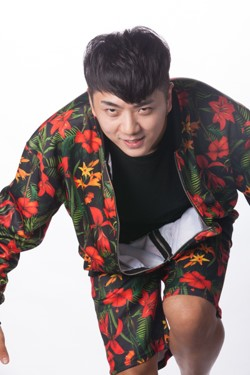
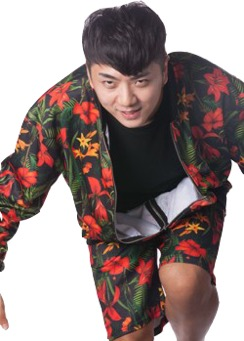
Member Tab 이미지 변경  - 투명도 작업(데모용, 추후 변경 됨)

diff --git a/src/shop-category-data.html b/src/shop-category-data.html
@@ -18,25 +18,25 @@ subject to an additional IP rights grant found at http://polymer.github.io/PATEN
       {
         name: 'mens_outerwear',
         title: 'Artists',
-        image: '/images/artists_6.jpg',
+        image: '/images/artists_8.png',
[1 lines of base64/hex data omitted]
       },
       {
         name: 'ladies_outerwear',
         title: 'News',
-        image: '/images/mixer_2_2.jpg',
+        image: '/images/news_1.jpg',
[1 lines of base64/hex data omitted]
       },
       {
         name: 'mens_tshirts',
         title: 'SNS',
-        image: '/images/logo8.jpg',
+        image: '/images/sns_1.jpg',
[1 lines of base64/hex data omitted]
       },
       {
         name: 'ladies_tshirts',
         title: 'Contact',
-        image: '/images/contact_3.jpg',
+        image: '/images/contact_4.jpg',
[1 lines of base64/hex data omitted]
       }
     ];

diff --git a/src/shop-app.html b/src/shop-app.html
@@ -252,7 +252,7 @@ subject to an additional IP rights grant found at http://polymer.github.io/PATEN
         total="{{total}}"></shop-cart-data>
 
 
-    <audio controls autoplay src="/data/music/example.mp3"></audio>
+    <!--<audio co정적 ntrols autoplay src="/data/music/example.mp3"></audio>-->
 
     <app-header role="navigation" id="header" effects="waterfall" condenses reveals>
       <app-toolbar>
